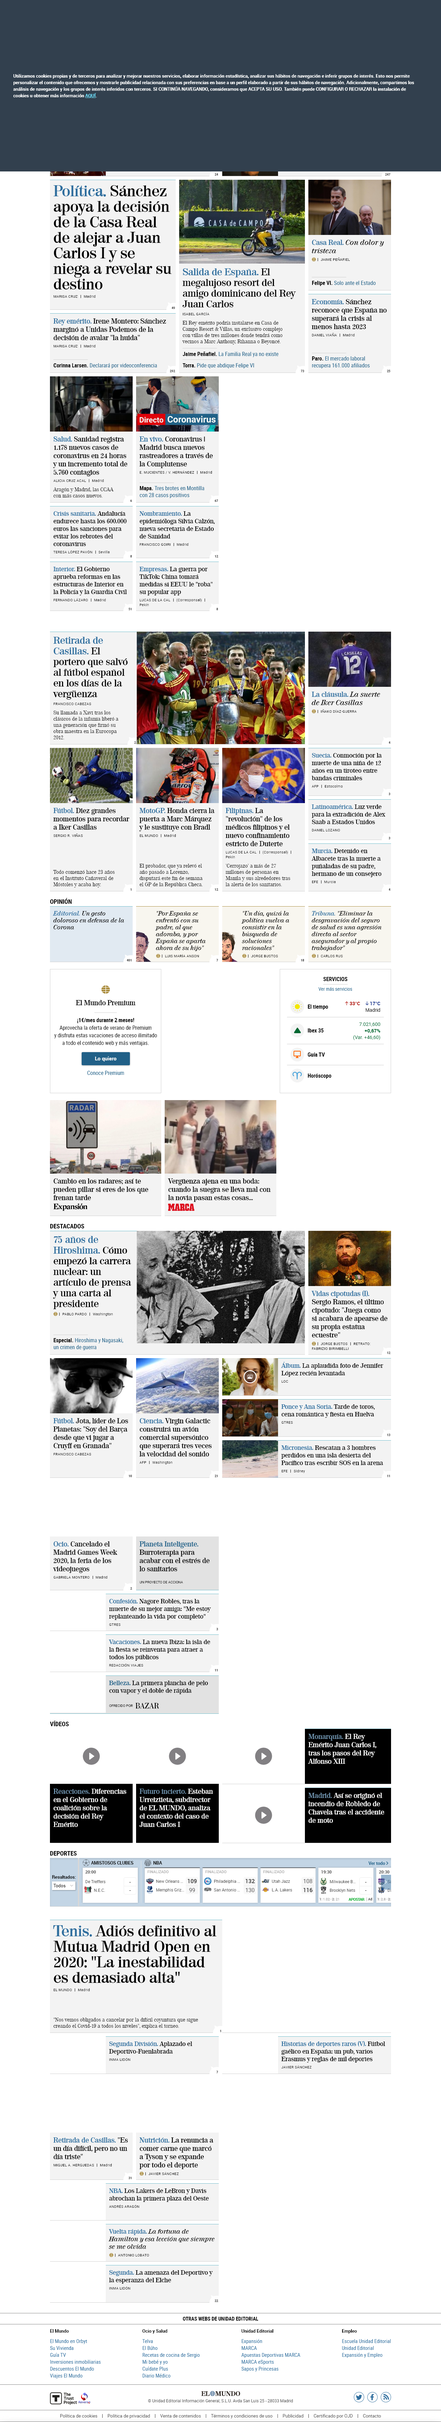
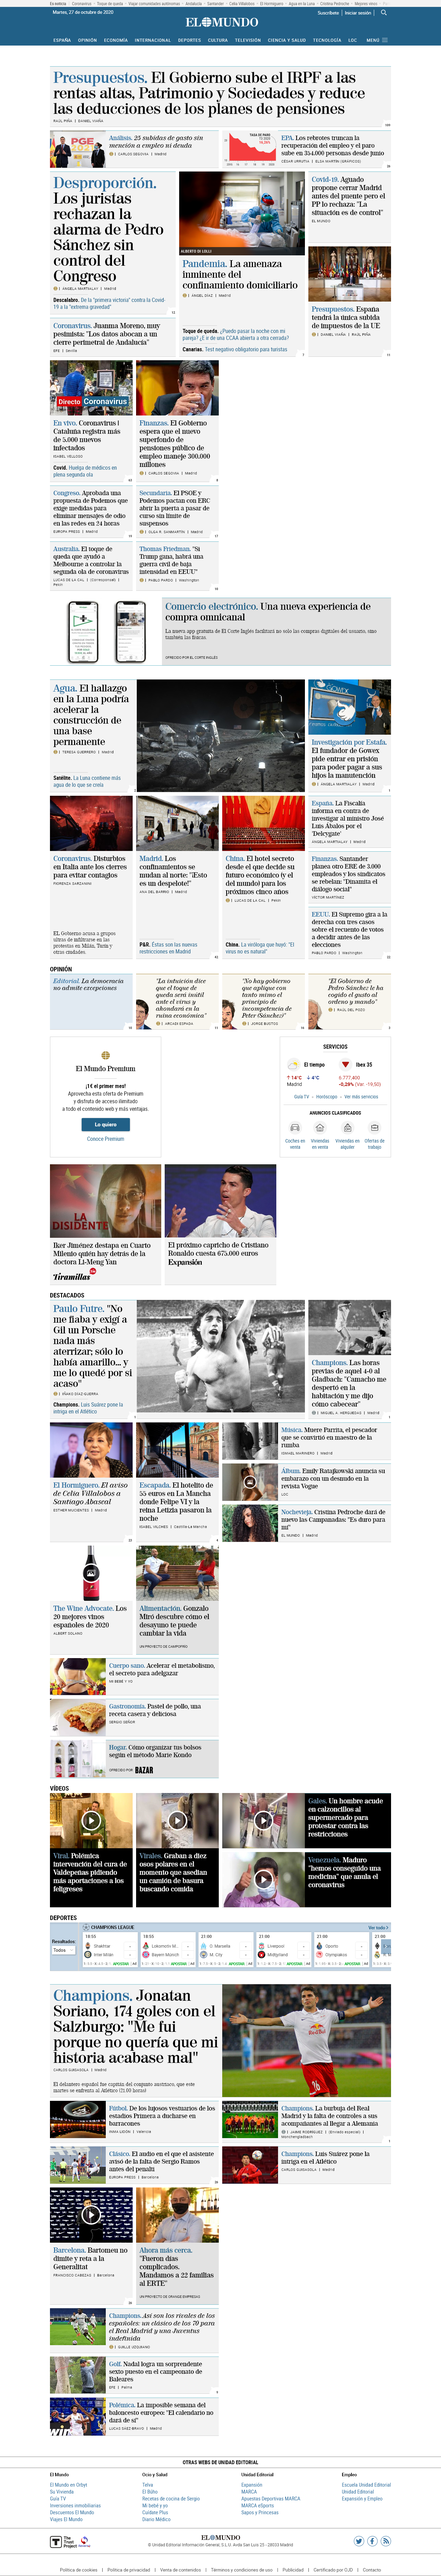
Cambios de capturas de pantalla

diff --git a/backend/src/libs/scraper.ts b/backend/src/libs/scraper.ts
@@ -1,26 +1,27 @@
 import puppeteer, { Browser, Page } from "puppeteer";
 
-export function getCapturas(){
-    captElPais();
-    captElMundo();
+export function getCapturas() {
+  captElPais();
+  captElMundo();
 }
 
-async function captElPais(){
-    const browser: Browser = await puppeteer.launch();
-    const page: Page = await browser.newPage();
-    await page.setViewport({ width: 1280, height: 800 })
-    await page.goto('https://www.elpais.com/');	
-    //Aceptar Cookies
-    //await page.click('#didomi-notice-agree-button');
-    await page.screenshot({ path: 'temp/elpais.png', fullPage: true })
-    await browser.close();
+async function captElPais() {
+  const browser: Browser = await puppeteer.launch();
+  const page: Page = await browser.newPage();
+  await page.setViewport({ width: 1280, height: 800 });
+  await page.goto("https://www.elpais.com/");
+  //Aceptar Cookies
+  await page.screenshot({ path: "temp/elpais.png", fullPage: true });
+  await browser.close();
 }
 
-async function captElMundo(){
-    const browser: Browser = await puppeteer.launch();
-    const page: Page = await browser.newPage();
-    await page.setViewport({ width: 1280, height: 800 })
-    await page.goto('https://www.elmundo.es/');	
-    await page.screenshot({ path: 'temp/elmundo.png', fullPage: true })
-    await browser.close();    
+async function captElMundo() {
+  const browser: Browser = await puppeteer.launch();
+  const page: Page = await browser.newPage();
+  await page.setViewport({ width: 1280, height: 800 });
+  await page.goto("https://www.elmundo.es/");
+  //Aceptar cookies
+  await page.click("#didomi-notice-agree-button");
+  await page.screenshot({ path: "temp/elmundo.png", fullPage: true });
+  await browser.close();
 }

diff --git a/backend/src/app.ts b/backend/src/app.ts
@@ -1,35 +1,41 @@
 import express from "express";
 import morgan from "morgan";
-import path from 'path';
+import path from "path";
 import { getCapturas } from "./libs/scraper";
-import cron, {  } from "node-cron";
+import cron from "node-cron";
 
-import apiroutes from './routes/api.routes';
-import entradasroutes from './routes/entradas.routes';
+import apiroutes from "./routes/api.routes";
+import entradasroutes from "./routes/entradas.routes";
 
 //inicializaciones
 const app = express();
 
 //configuraciones
-app.set('port', process.env.PORT || 3000);
+app.set("port", process.env.PORT || 3000);
 
 //middlewares
-app.use(morgan('dev'));
+app.use(morgan("dev"));
 app.use(express.json());
 
 //Tareas Programadas Por horas
-cron.schedule("* 9,15,22 * * *", async function(){
-    console.log("Realizando capturas");
-    getCapturas();
+cron.schedule("* 9,15,22 * * *", async function () {
+  console.log("Realizando capturas");
+  getCapturas();
 });
 
 //rutas
-app.get('/', (req, res) => {
-    res.send('Hola Mundo');
+app.get("/", (req, res) => {
+  res.send("Hola Mundo");
 });
 
-app.use('/capturas', express.static(path.resolve('capturas')));
-app.use('/home', apiroutes);
-app.use('/entradas', entradasroutes);
+app.get("/realizarCapturas", (req, res) => {
+    res.send("Realizando Capturas");
+    getCapturas();
+    console.log("Capturas Realizadas");
+});
 
-export default app
+app.use("/capturas", express.static(path.resolve("capturas")));
+app.use("/home", apiroutes);
+app.use("/entradas", entradasroutes);
+
+export default app;

diff --git a/backend/src/controllers/api.controller.ts b/backend/src/controllers/api.controller.ts
@@ -1,6 +1,6 @@
 import {Request, Response} from 'express'
 import config from '../config/config'
 
-export const home = (req: Request, res:Response) => {
+export const home = (req: Request, res: Response) => {
     return res.send('Home');
 }
